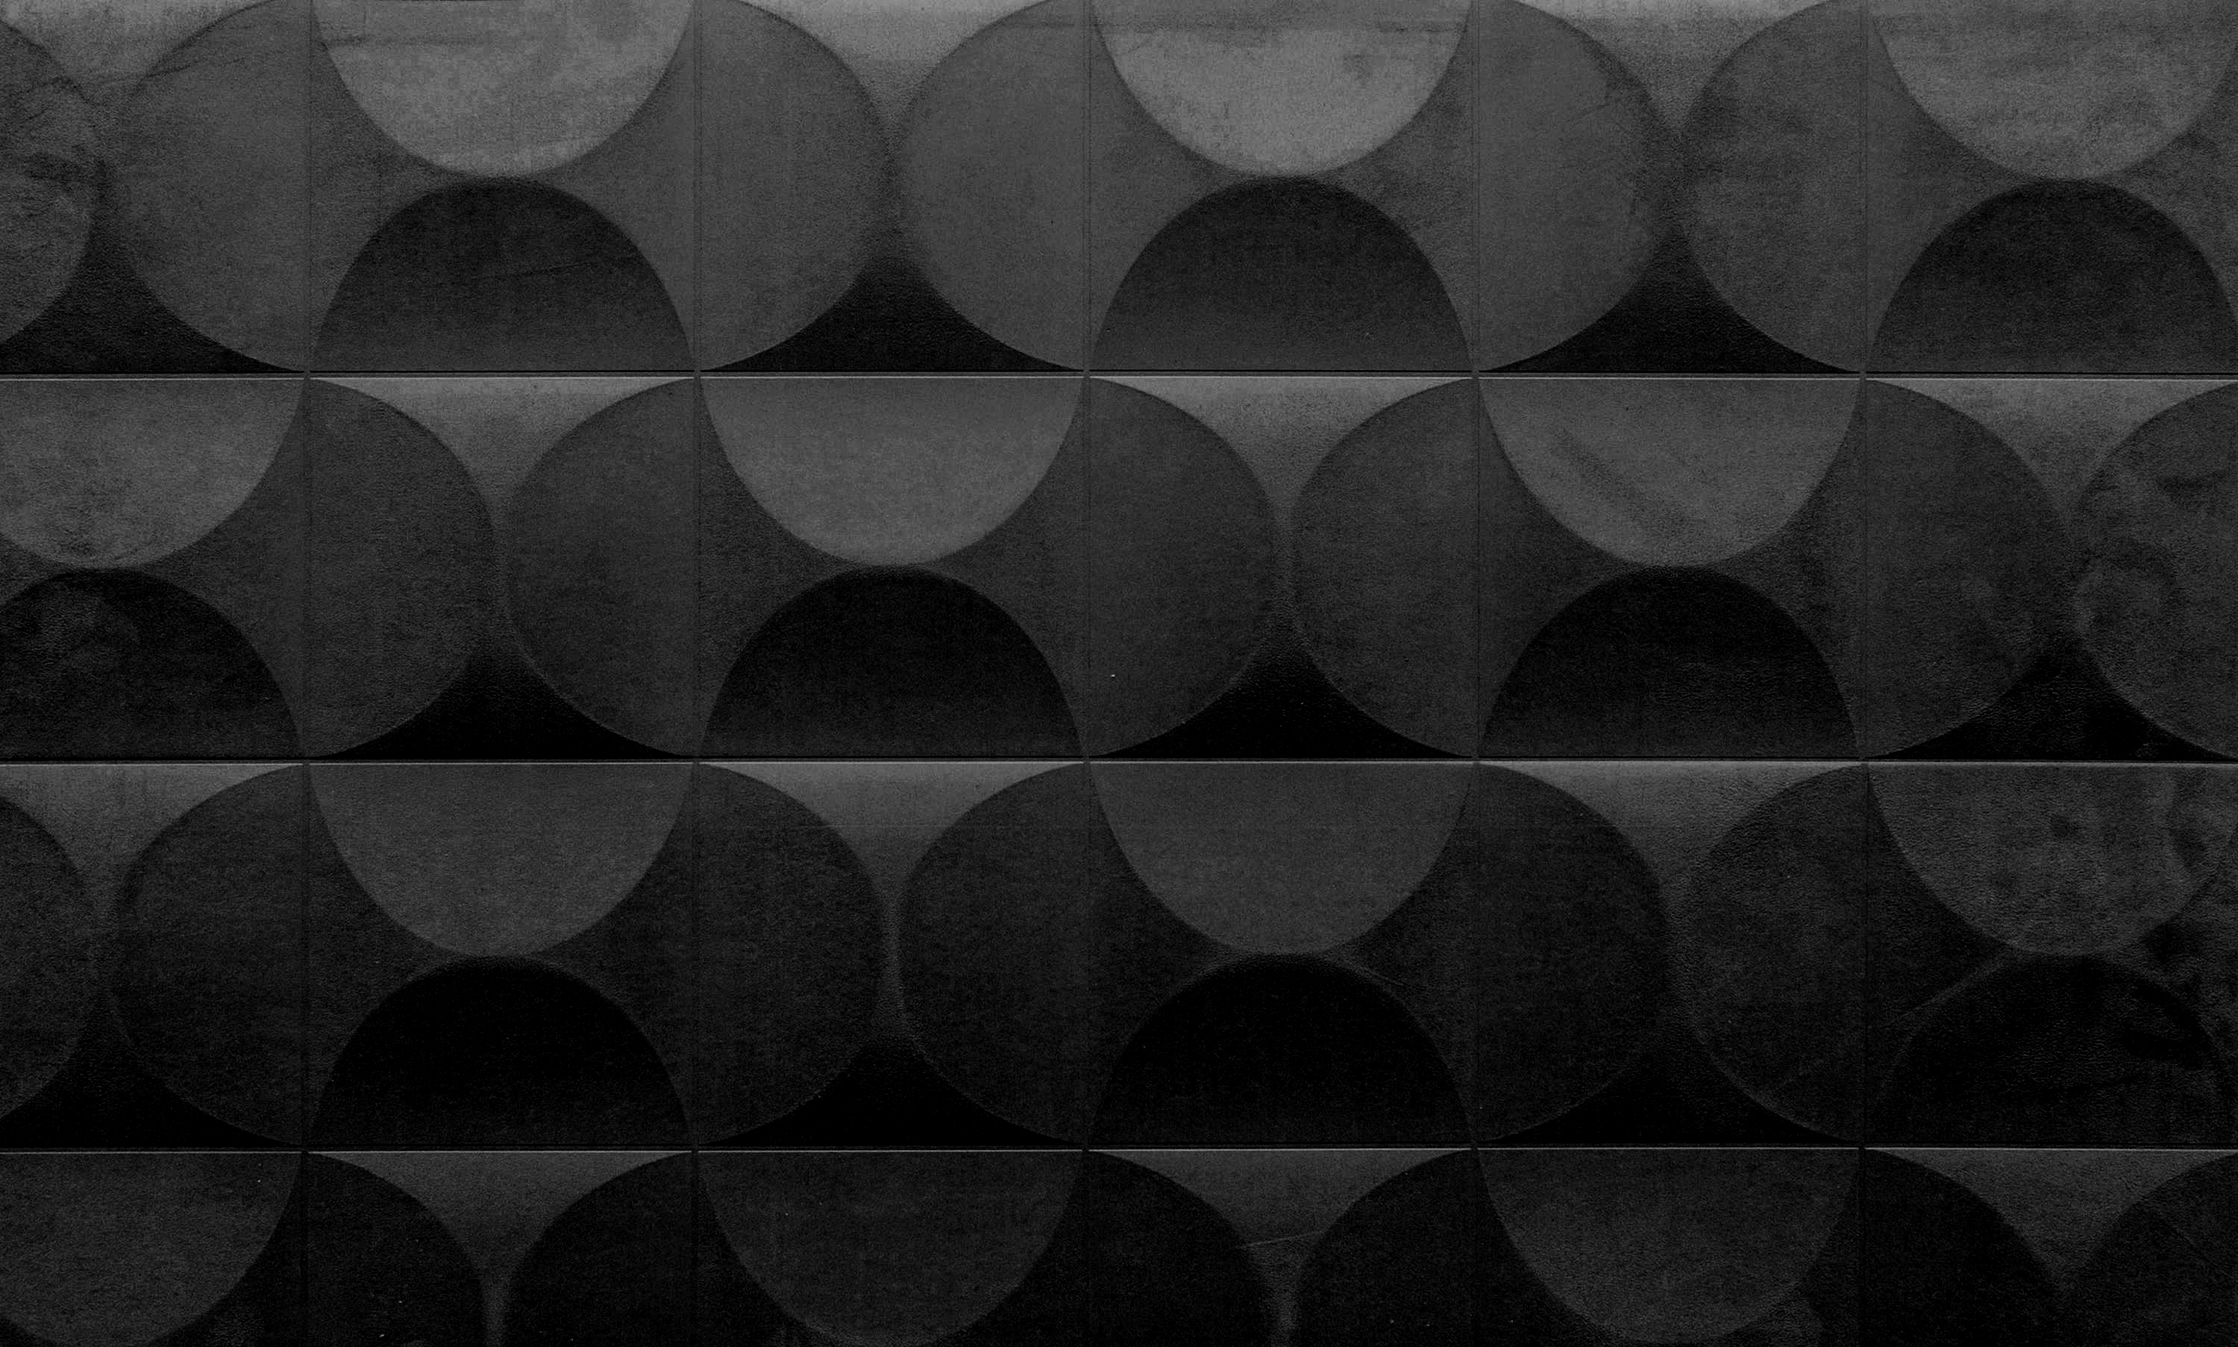
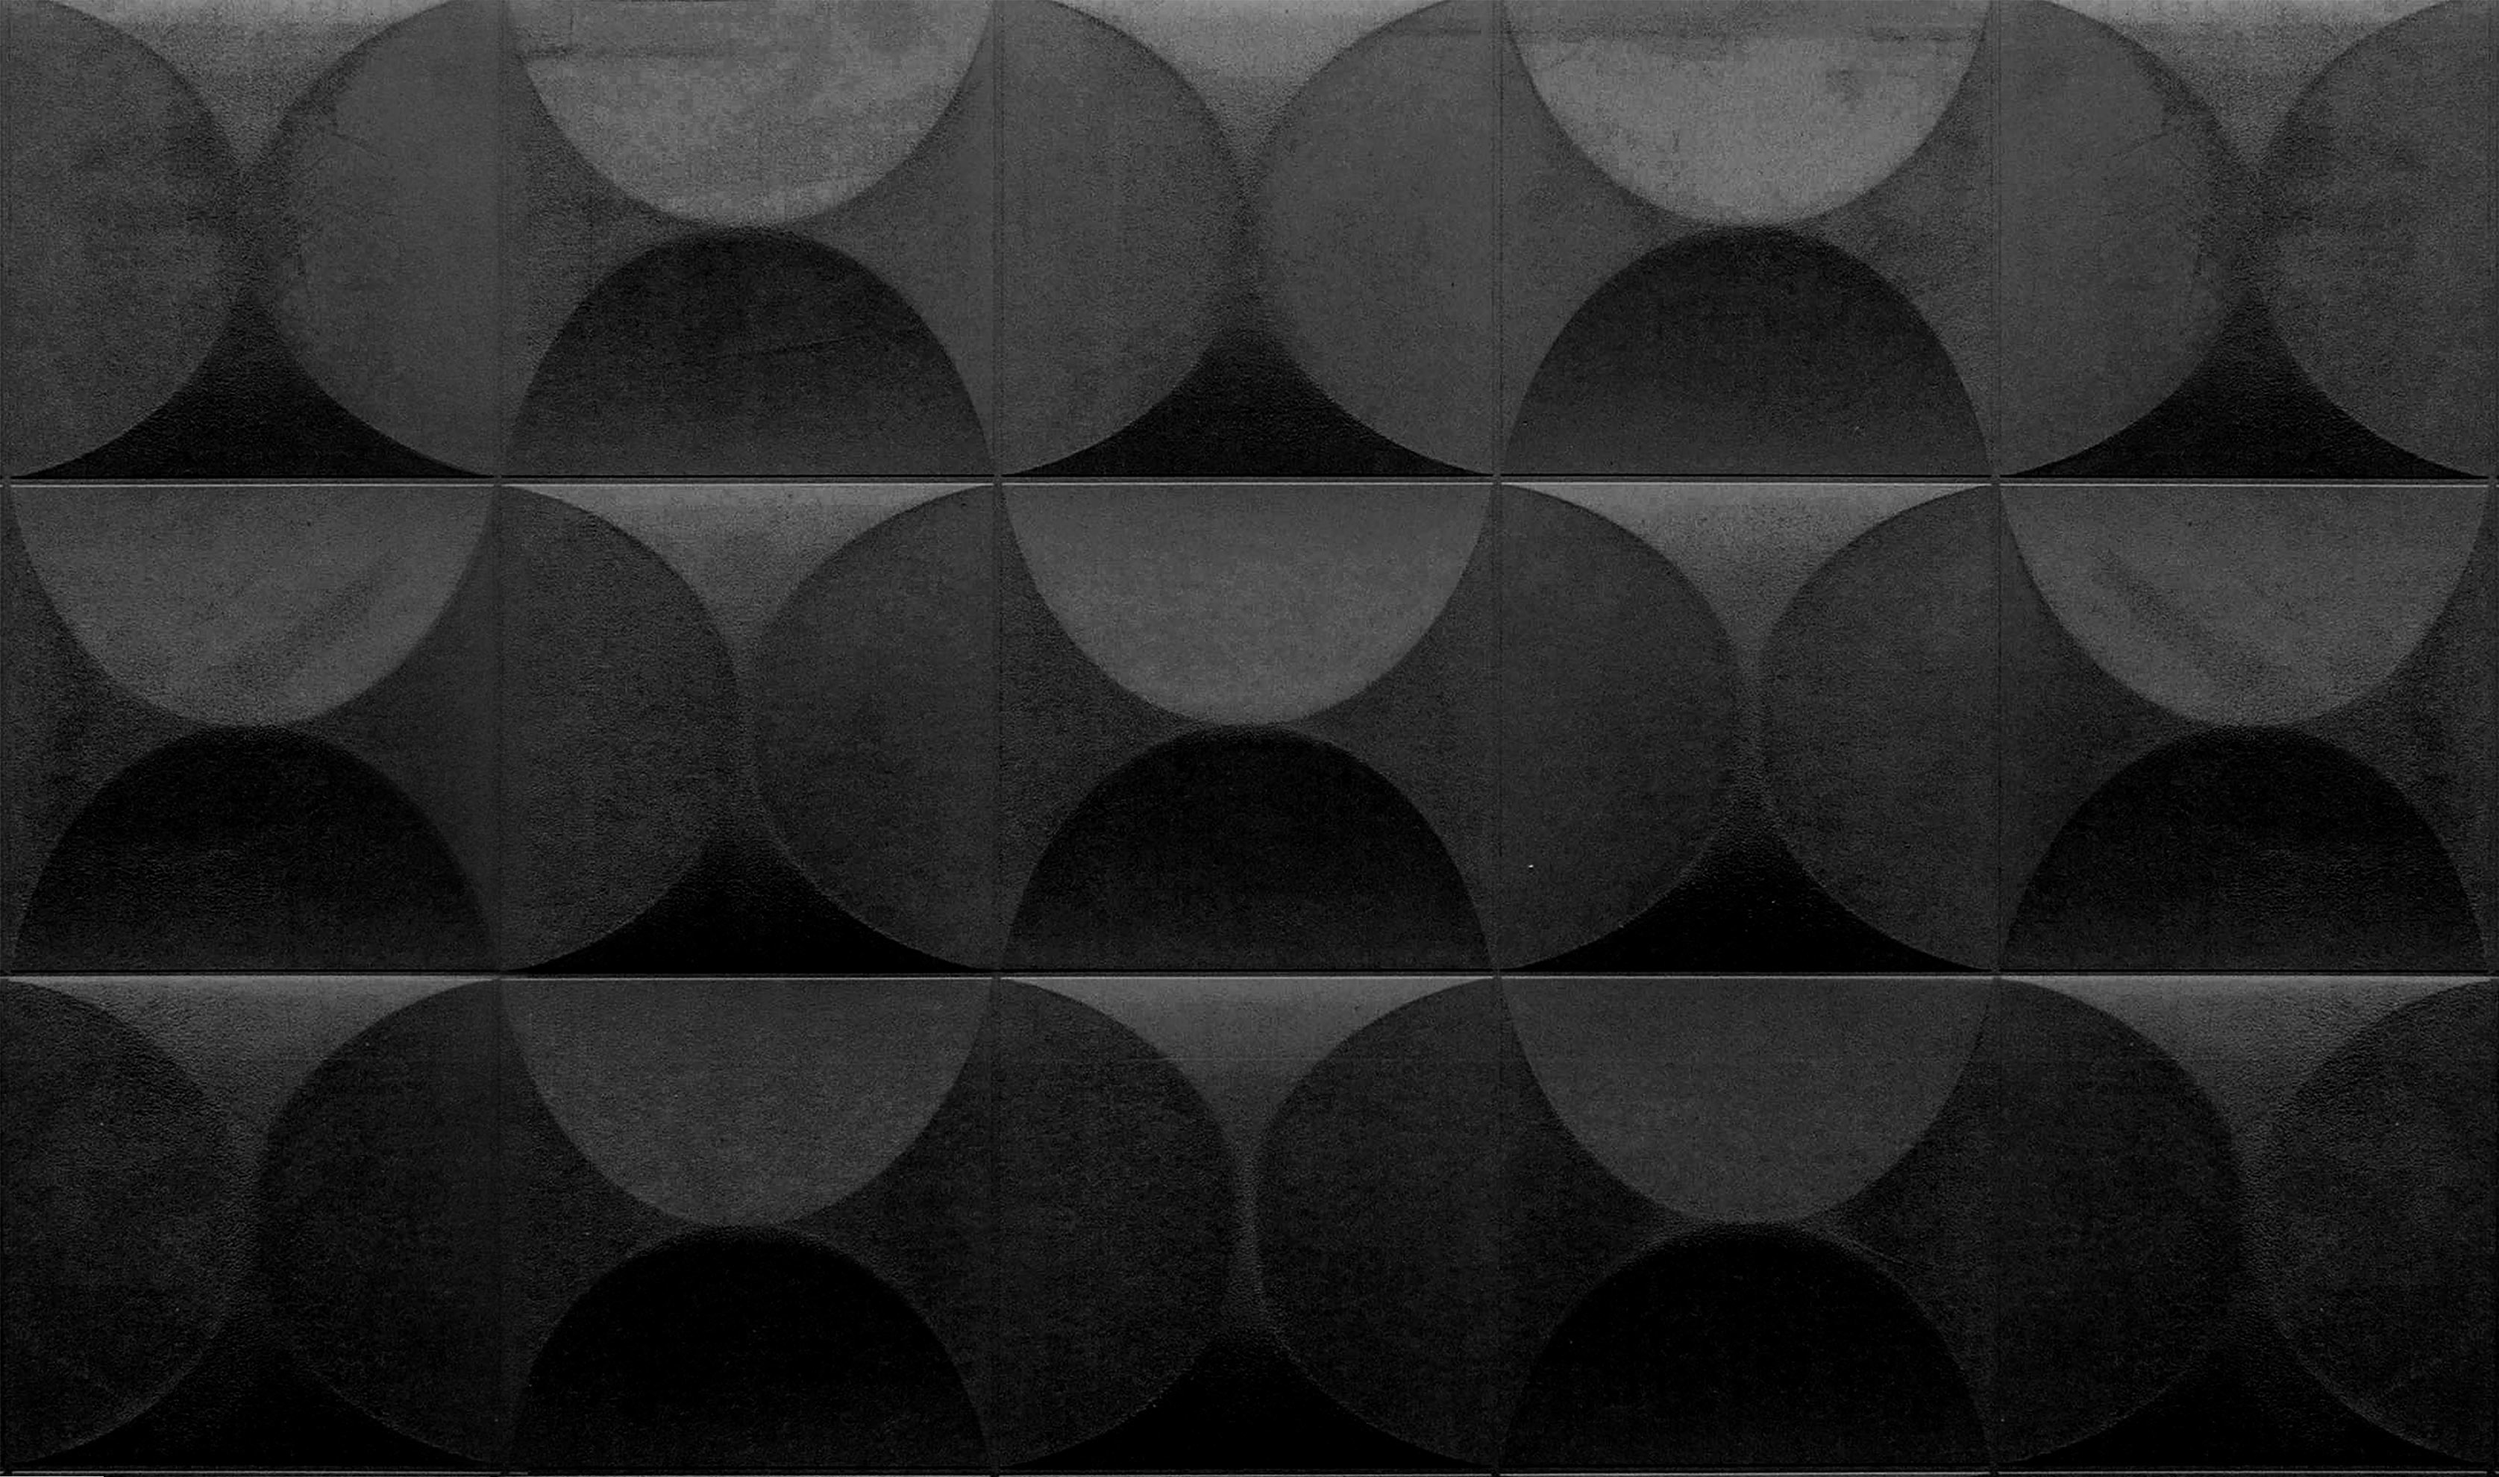
some little fix

diff --git a/assets/HERA/style.css b/assets/HERA/style.css
@@ -12,10 +12,10 @@
 body{background: black;}
 .home{background: url('caro.jpg');background-repeat: no-repeat;
     background-attachment: fixed;
-    background-position: center top; position: fixed;left: 0;right: 0;top: 0;bottom: 0;display: -webkit-flex;display: -moz-flex;display: -ms-flex;display: -o-flex;display: flex;flex-direction:column; align-items:center; justify-content:center;}
-.logo{ display:block; width : 500px;opacity:0.2;}
+    background-position: center center; position: fixed;left: 0;right: 0;top: 0;bottom: 0;display: -webkit-flex;display: -moz-flex;display: -ms-flex;display: -o-flex;display: flex;flex-direction:column; align-items:center; justify-content:center;}
+.logo{ display:block; width : 500px;opacity:0.6;}
 .logo img {width: 100%;}
-.txt{ display:block; width : 800px;opacity:0.3;}
+.txt{ display:block; width : 680px;opacity:0.5;padding-left: 20px;}
 .txt img {width: 100%; }
 .email {position: fixed;bottom:40px;width: 100%;text-align: center;font-family: 'timelessregular';color:white;font-size: 20px;self-align:flex-end;}
 .email a{padding:0px 10px;color:white;text-decoration: none;}
